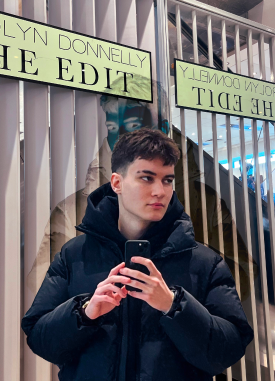
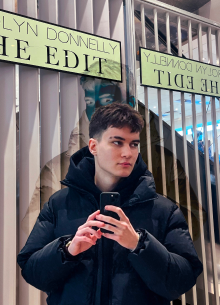
last change for photos

diff --git a/index.html b/index.html
@@ -171,7 +171,8 @@
                 </div>
             </div>
             <div class="cont2-4">
-                <img src="img/photos/me-1.png" class="img1-4" alt="">
+                <source media="(max-width: 600px)" srcset="img/photos/me-1-mobile"> <!--PHOTO ME SMALL-->
+                <img src="img/photos/me-1.png" alt="ME" class="img1-4">
             </div>
         </div>
     </div>

diff --git a/mobile.css b/mobile.css
@@ -163,7 +163,7 @@ body {
 
 .note-photo,
 .idcards-photo {
-    max-width: 55%; /* Увеличенная ширина блокнота */
+    max-width: 70%; /* Увеличенная ширина блокнота */
     height: auto;
     margin: 0.5rem;
     margin-left: -10%;
